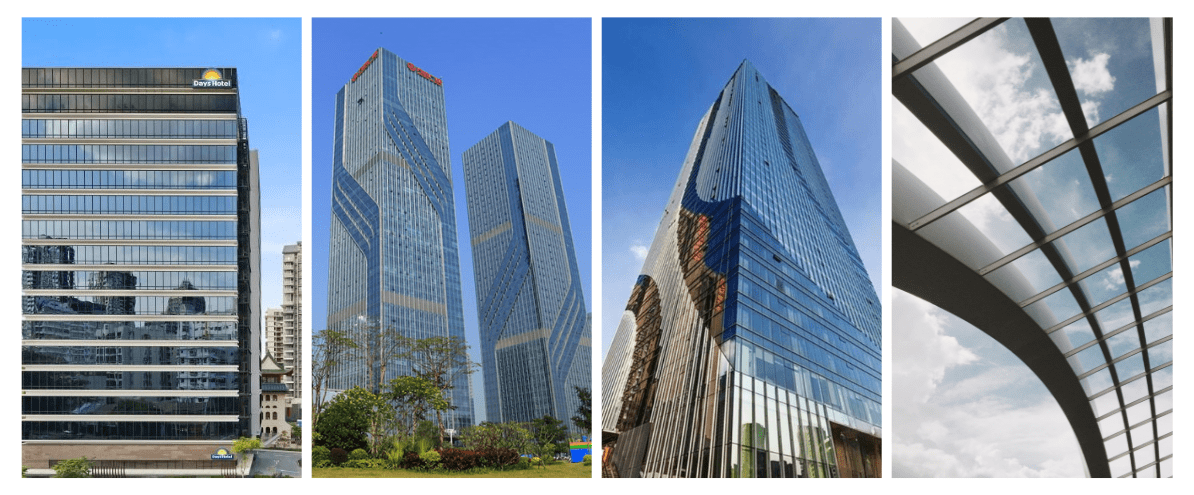
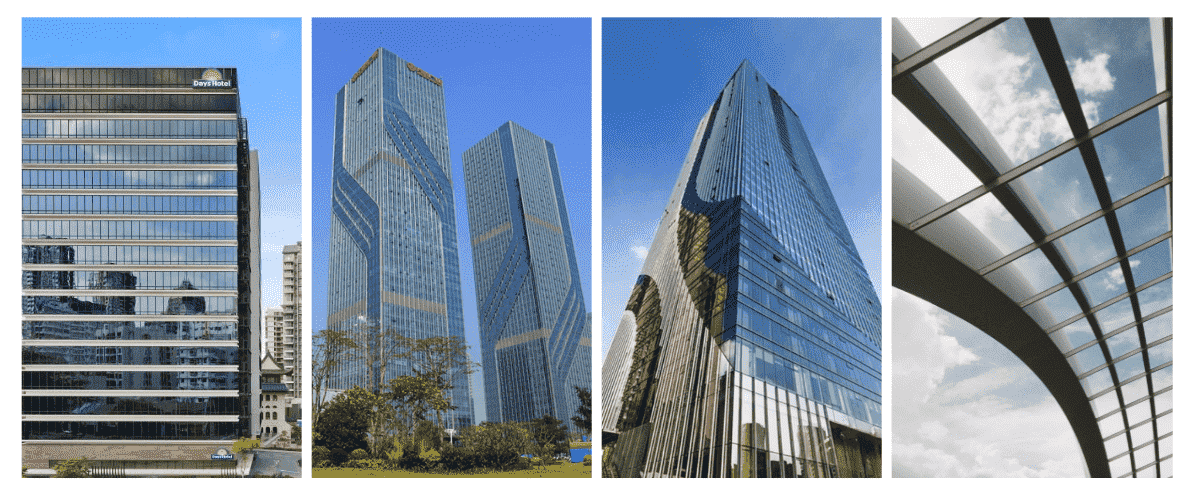
reduce size

diff --git a/index.html b/index.html
@@ -775,13 +775,13 @@
 
           <div class="col-lg-3 col-md-6">
             <div class="member" data-aos="fade-up" data-aos-delay="400">
-              <img src="assets/img/project/xinhuilongquan.jpg" class="img-fluid" alt="Xinhui Longquan Hotel">
+              <img src="assets/img/project/xinhuilongquan-min.jpg" class="img-fluid" alt="Xinhui Longquan Hotel">
               <div class="member-info">
                 <div class="member-info-content">
                   <h4>Xinhui Longquan Hotel</h4>
                   <span>Low-E IGU, laminated 10000m<sup>2</sup></span>
                   <div class="social">
-                    <a href="assets/img/project/xinhuilongquan.jpg" class="link-preview portfolio-lightbox" data-gallery="projectGallery" title="Xinhui Longquan Hotel"><i class="bi bi-search"></i></a>
+                    <a href="assets/img/project/xinhuilongquan-min.jpg" class="link-preview portfolio-lightbox" data-gallery="projectGallery" title="Xinhui Longquan Hotel"><i class="bi bi-search"></i></a>
                   </div>
                 </div>
               </div>

diff --git a/assets/css/style.css b/assets/css/style.css
@@ -915,7 +915,7 @@ section {
 /* Facts Section
 --------------------------------*/
 #facts {
-  background: url("../img/facts-bg.jpg") center top no-repeat fixed;
+  background: url("../img/facts-bg-min.jpg") center top no-repeat fixed;
   background-size: cover;
   padding: 60px 0 0 0;
   position: relative;
